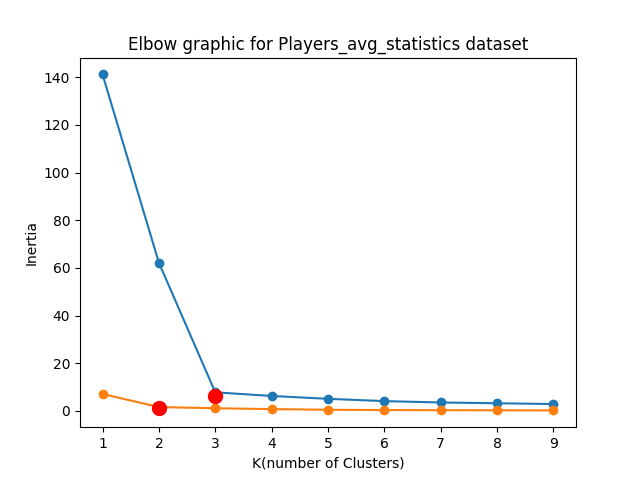
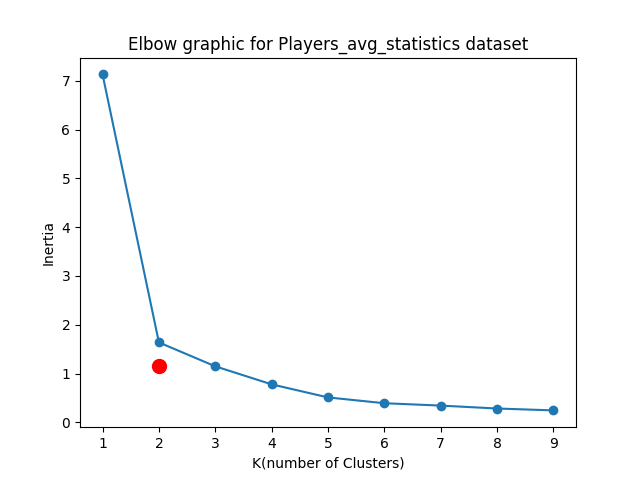
fix: clean pyplot data

diff --git a/modules/clustering/Clusterer.py b/modules/clustering/Clusterer.py
@@ -26,7 +26,7 @@ class Clusterer:
         plt.ylabel("Inertia")
         plt.scatter(cluster, inertias[cluster], color='red', s=100, zorder=5, )
         plt.savefig(f"modules/clustering/elbow/{self.name}-elbow.png")
-        
+        plt.close()
         return cluster
 
 
